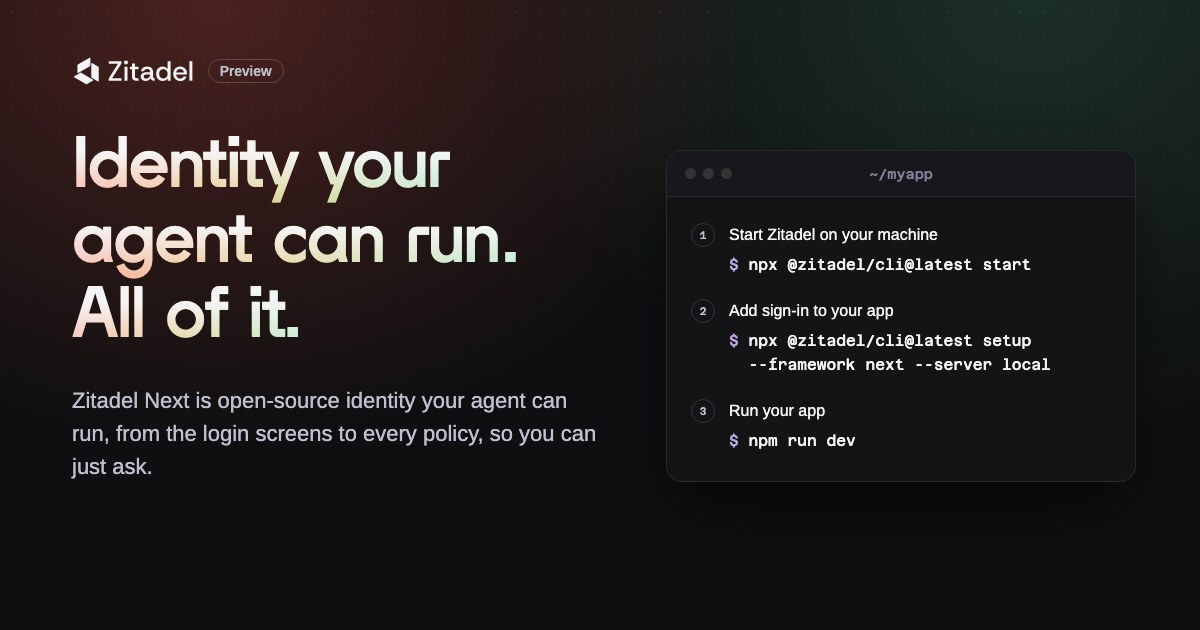
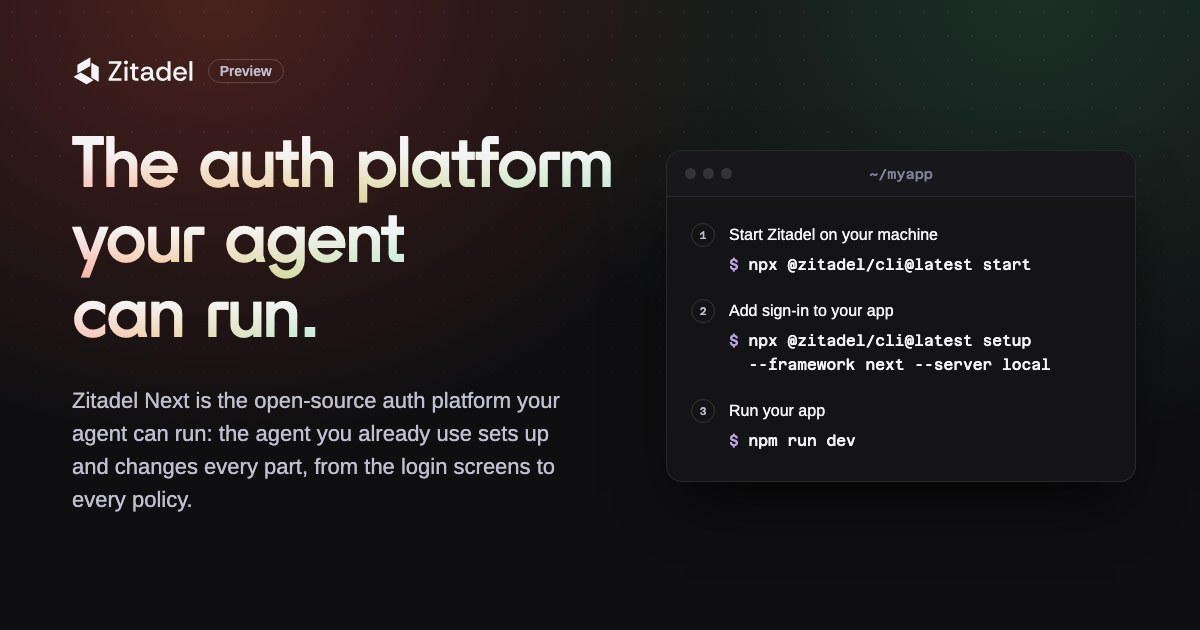
build(deploy): call the website's front page the auth platform your agent can run and tease what you can turn on
The hero's title is "The auth platform your agent can run." and its line
the new sentence, which now lives once in app/message.ts for the front
page, the site's description and the summary of /llms.txt. The title tag
and the footer follow, and the share image shows the new title and line.

Between the line and the commands, the hero lists what you can turn on:
Login, Single sign-on, Organizations, Permissions, OAuth server, SCIM,
Agent identity and Audit trail, each linking to its page where there is
one. Their clicks report clicked_link from the hero, and the catalog lists
the new targets.

diff --git a/apps/website/scripts/og.html b/apps/website/scripts/og.html
@@ -28,8 +28,8 @@ h1 span { background: linear-gradient(180deg, #f4f4f6 30%, transparent 125%), li
 </style></head><body>
 <div class="light"></div><div class="grid"></div>
 <div class="top"><svg viewBox="0 0 495 122"><path d="M23.92 34.61C22.83 35.14 22.02 36.17 21.92 37.14L21.92 67.21C21.76 68.76 23.38 69.49 25.11 68.64L72.79 41.55C73.88 41.02 74.68 40 74.78 39.02L74.78 8.39C74.94 6.84 73.32 6.12 71.6 6.96L23.92 34.61ZM108.75 47.22C108.84 46.01 108.36 44.8 107.56 44.22L81.21 28.38C79.96 27.48 78.52 28.51 78.38 30.43L78.38 85.57C78.3 86.79 78.78 87.99 79.58 88.57L105.92 103.63C107.18 104.53 108.62 103.5 108.75 101.58L108.75 47.22ZM56.86 114.13C57.88 114.81 59.16 115 60.06 114.59L85.69 99.82C87.13 99.06 86.93 97.43 85.34 96.35L37.39 68.21C36.38 67.53 35.09 67.34 34.2 67.74L8.21 82.9C6.8 83.54 6.98 85.3 8.57 86.38L56.86 114.13Z"/><path d="z"/><path d="M149.23 91.12L149.23 100.44L201.36 100.44L201.36 90.1L163.08 90.1L201.02 30.25L201.02 20.93L149.68 20.93L149.68 31.16L187.05 31.16L149.23 91.12Z"/><path d="i"/><path d="M213.95 31.95C215.54 33.46 217.43 34.22 219.63 34.22C221.9 34.22 223.79 33.46 225.31 31.95C226.9 30.36 227.7 28.43 227.7 26.16C227.7 23.96 226.9 22.1 225.31 20.59C223.79 19.08 221.9 18.32 219.63 18.32C217.43 18.32 215.54 19.08 213.95 20.59C212.44 22.1 211.68 23.96 211.68 26.16C211.68 28.43 212.44 30.36 213.95 31.95ZM213.61 44.1L213.61 100.44L225.65 100.44L225.65 44.1L213.61 44.1Z"/><path d="t"/><path d="M248.64 96.35C251.67 99.07 255.98 100.44 261.58 100.44L270.45 100.44L270.45 90.21L264.08 90.21C261.36 90.21 259.35 89.72 258.07 88.74C256.78 87.75 256.14 85.82 256.14 82.95L256.14 54.21L270.45 54.21L270.45 44.1L256.14 44.1L256.14 30.47L244.09 30.47L244.09 44.1L235.58 44.1L235.58 54.21L244.09 54.21L244.09 82.95C244.09 89.16 245.61 93.62 248.64 96.35Z"/><path d="a"/><path d="M289.32 99.87C292.35 101.16 295.68 101.8 299.31 101.8C303.78 101.8 307.75 100.74 311.24 98.62C314.72 96.5 317.37 93.92 319.18 90.89C320.02 93.09 321.15 94.91 322.59 96.35C324.03 97.71 325.85 98.73 328.05 99.41C330.32 100.1 332.97 100.44 336 100.44L336 90.1C333.73 89.95 332.14 89.38 331.23 88.4C330.39 87.34 329.94 85.71 329.86 83.51L329.86 66.25C329.86 61.71 328.95 57.65 327.14 54.09C325.39 50.54 322.71 47.78 319.07 45.81C315.52 43.76 311.01 42.74 305.56 42.74C301.39 42.74 297.46 43.5 293.75 45.01C290.03 46.53 286.97 48.72 284.54 51.6C282.2 54.47 280.83 57.96 280.45 62.05L292.61 62.05C293.22 58.87 294.69 56.56 297.04 55.12C299.46 53.6 302.26 52.84 305.44 52.84C307.87 52.84 309.99 53.34 311.8 54.32C313.62 55.23 315.06 56.71 316.12 58.75C317.18 60.72 317.71 63.33 317.71 66.59L303.4 66.59C299.01 66.59 294.96 67.23 291.25 68.52C287.61 69.73 284.7 71.66 282.5 74.31C280.38 76.89 279.32 80.33 279.32 84.65C279.32 88.29 280.23 91.39 282.04 93.96C283.86 96.54 286.29 98.5 289.32 99.87ZM310.33 89.65C307.98 91.16 305.25 91.92 302.15 91.92C299.27 91.92 296.81 91.27 294.77 89.99C292.72 88.63 291.7 86.51 291.7 83.63C291.7 81.43 292.27 79.73 293.41 78.51C294.62 77.23 296.17 76.32 298.06 75.79C300.03 75.26 302.11 74.99 304.31 74.99L317.71 74.99L317.71 75.22C317.71 78.17 317.07 80.94 315.78 83.51C314.49 86.01 312.68 88.06 310.33 89.65Z"/><path d="d"/><path d="M354.59 97.82C358.68 100.47 363.52 101.8 369.13 101.8C373.6 101.8 377.53 100.85 380.94 98.96C384.35 97.07 386.96 94.64 388.78 91.69L389.23 100.44L400.93 100.44L400.93 20.93L388.78 20.93L388.78 52.5C386.66 49.4 383.89 47.02 380.48 45.35C377.08 43.61 373.29 42.74 369.13 42.74C363.52 42.74 358.68 44.06 354.59 46.71C350.58 49.29 347.47 52.81 345.28 57.28C343.16 61.67 342.1 66.59 342.1 72.04C342.1 77.57 343.16 82.57 345.28 87.04C347.47 91.5 350.58 95.1 354.59 97.82ZM380.71 88.74C378.14 90.4 375.07 91.23 371.52 91.23C368.26 91.23 365.34 90.44 362.77 88.85C360.19 87.26 358.15 85.03 356.63 82.15C355.12 79.27 354.37 75.94 354.37 72.15C354.37 68.3 355.08 64.96 356.52 62.16C358.03 59.36 360.08 57.16 362.65 55.57C365.23 53.98 368.14 53.19 371.4 53.19C374.58 53.19 377.46 53.94 380.03 55.46C382.68 56.97 384.76 59.13 386.28 61.93C387.87 64.74 388.66 68.18 388.66 72.27C388.66 75.83 387.98 79.04 386.62 81.92C385.26 84.8 383.29 87.07 380.71 88.74Z"/><path d="e"/><path d="M425.27 98.05C429.51 100.55 434.39 101.8 439.92 101.8C444.61 101.8 448.7 100.97 452.18 99.3C455.67 97.63 458.55 95.4 460.82 92.6C463.17 89.8 464.83 86.69 465.82 83.29L453.32 83.29C452.18 86.01 450.44 88.13 448.1 89.65C445.83 91.08 443.06 91.8 439.81 91.8C436.78 91.8 434.09 91.12 431.74 89.76C429.4 88.32 427.54 86.39 426.18 83.97C424.81 81.47 424.02 78.63 423.79 75.45L467.07 75.45C467.22 74.39 467.29 73.48 467.29 72.72C467.37 71.96 467.41 71.05 467.41 70C467.41 64.77 466.23 60.12 463.89 56.03C461.61 51.94 458.43 48.72 454.34 46.37C450.25 43.95 445.49 42.74 440.03 42.74C434.43 42.74 429.47 43.99 425.16 46.49C420.91 48.91 417.62 52.31 415.27 56.71C412.92 61.1 411.75 66.29 411.75 72.27C411.75 78.02 412.92 83.13 415.27 87.6C417.69 92.07 421.03 95.55 425.27 98.05ZM455.14 66.93L423.91 66.93C424.44 62.16 426.25 58.6 429.36 56.25C432.46 53.9 435.9 52.73 439.69 52.73C443.93 52.73 447.53 54.02 450.48 56.59C453.43 59.09 454.99 62.54 455.14 66.93Z"/><path d="l"/><path d="M477.46 20.93L477.46 100.44L489.5 100.44L489.5 20.93L477.46 20.93Z"/></svg><span class="pill">Preview</span></div>
-<h1><span>Identity your<br>agent can run.<br>All of it.</span></h1>
-<p class="lede">Zitadel Next is open-source identity your agent can run, from the login screens to every policy, so you can just ask.</p>
+<h1><span>The auth platform<br>your agent<br>can run.</span></h1>
+<p class="lede">Zitadel Next is the open-source auth platform your agent can run: the agent you already use sets up and changes every part, from the login screens to every policy.</p>
 <div class="window"><div class="bar"><i></i><i></i><i></i><span>~/myapp</span></div><div class="body">
 <div class="step"><span class="n">1</span><span class="label">Start Zitadel on your machine</span><div class="cmd"><span class="p">$</span> npx @zitadel/cli@latest start</div></div>
 <div class="step"><span class="n">2</span><span class="label">Add sign-in to your app</span><div class="cmd"><span class="p">$</span> npx @zitadel/cli@latest setup <span class="w">--framework</span> next <span class="w">--server</span> local</div></div>

diff --git a/apps/website/app/cta.tsx b/apps/website/app/cta.tsx
@@ -1,9 +1,10 @@
 "use client";
 
-import { type Placement, trackEvent } from "./analytics";
+import { type Placement, type Target, trackEvent } from "./analytics";
 import { GitHubMark } from "./github-mark";
 import { links } from "./links";
 import { phasePath } from "./phases";
+import { featurePath } from "./platform";
 
 const BUTTON =
   "group inline-flex h-11 items-center gap-2 rounded-lg px-5 font-semibold text-sm transition-colors";
@@ -73,6 +74,62 @@ export function StartButtons({
           Talk to us
         </a>
       )}
+    </div>
+  );
+}
+
+// What you can turn on, in the founder's order: each with the page that
+// shows it where there is one, and its name for analytics (analytics.ts).
+const CAPABILITIES: readonly { label: string; link?: { href: string; target: Target } }[] = [
+  { label: "Login", link: { href: featurePath("sign-in"), target: "sign_in" } },
+  {
+    label: "Single sign-on",
+    link: { href: featurePath("single-sign-on"), target: "single_sign_on" },
+  },
+  { label: "Organizations" },
+  { label: "Permissions", link: { href: featurePath("permissions"), target: "permissions" } },
+  { label: "OAuth server" },
+  { label: "SCIM" },
+  { label: "Agent identity", link: { href: featurePath("agents"), target: "agents" } },
+  { label: "Audit trail", link: { href: phasePath("investigate"), target: "investigate" } },
+];
+
+/**
+ * The hero's capabilities between hairlines, under a label in the steps'
+ * small type: what you get, whoever runs it. An item with a page links to it
+ * and reports `clicked_link` from the hero; one without stands as text. The
+ * items wrap as whole names.
+ */
+export function CapabilityStrip({ className = "" }: { className?: string }) {
+  return (
+    <div
+      className={`flex flex-col items-center gap-2.5 border-border-primary border-y py-4 ${className}`}
+    >
+      <p id="capabilities-label" className="font-mono text-text-muted text-xs leading-4">
+        Turn on what you need
+      </p>
+      <ul
+        aria-labelledby="capabilities-label"
+        className="flex flex-wrap justify-center gap-x-5 gap-y-1 text-sm leading-6"
+      >
+        {CAPABILITIES.map(({ label, link }) => (
+          <li key={label} className="whitespace-nowrap">
+            {link ? (
+              <a
+                href={link.href}
+                onClick={() =>
+                  trackEvent("clicked_link", { target: link.target, placement: "hero" })
+                }
+                className="text-text-secondary underline decoration-tint/25 underline-offset-4 transition-colors hover:text-text-primary hover:decoration-text-primary"
+              >
+                {label}
+              </a>
+            ) : (
+              <span className="text-text-secondary">{label}</span>
+            )}
+          </li>
+        ))}
+      </ul>
     </div>
   );
 }

diff --git a/apps/website/app/page.tsx b/apps/website/app/page.tsx
@@ -1,17 +1,14 @@
 import type { CSSProperties } from "react";
 import { ChangeHistory, QuickstartCommands, SkillsLine } from "./blocks";
 import { Capabilities } from "./capabilities";
-import { StartButtons } from "./cta";
+import { CapabilityStrip, StartButtons } from "./cta";
 import { HISTORY } from "./get-started/history";
+import { SENTENCE } from "./message";
 import { PHASES, phasePath } from "./phases";
 import { PLATFORM } from "./platform";
 import { Part, PointList, TitleRows, TopLight } from "./sections";
 import { SiteFooter } from "./site-footer";
 import { SiteHeader } from "./site-header";
-
-// The message house's sentence, word for word, under the title.
-const LINE =
-  "Zitadel Next is open-source identity your agent can run, from the login screens to every policy, so you can just ask.";
 
 // What stays yours, whatever your agent runs (LICENSING.md for the licenses).
 const DECIDE = [
@@ -73,16 +70,17 @@ export default function Home() {
           <div className="grid w-fit max-w-full justify-items-center">
             <h1 id="hero-title" className="hero-title">
               <span className="display-title">
-                Identity your agent can run. <br />
-                All of it.
+                The auth platform <br className="max-sm:hidden" />
+                your agent can run.
               </span>
             </h1>
             <p className="hero-lede teaser mt-5 text-balance text-center text-base text-text-secondary leading-7 md:text-lg md:leading-8">
-              {LINE}
+              {SENTENCE}
             </p>
           </div>
-          <div className="teaser mt-10 flex w-full flex-col items-center gap-6">
-            <div className="w-full max-w-[42rem]">
+          <div className="teaser mt-8 flex w-full flex-col items-center gap-6">
+            <CapabilityStrip className="w-full max-w-3xl" />
+            <div className="w-full max-w-3xl">
               <QuickstartCommands placement="hero" />
             </div>
             <SkillsLine placement="hero" className="text-balance text-center text-sm" />

diff --git a/apps/website/app/llms.txt/route.ts b/apps/website/app/llms.txt/route.ts
@@ -1,4 +1,5 @@
 import { commands, deployCommand, dryRunCommand, folderCommand, skillsCommand } from "../commands";
+import { SENTENCE } from "../message";
 import { PHASES, phasePath } from "../phases";
 import { FEATURES, featurePath, PLATFORM } from "../platform";
 import { sessions } from "../showcase/sessions";
@@ -28,7 +29,7 @@ const featurePages = [
 
 const body = `# Zitadel (developer preview)
 
-> Your login in one minute. Zitadel is open-source auth for users, services, and AI agents that lives in the app's repo: one terminal session gives an app a local Zitadel with login, registration, and profile pages, and the user model, the login flow, and the styling are files in the repo. This is the preview of the next Zitadel: APIs, CLI flags and packages still change.
+> ${SENTENCE} One terminal session gives an app a local Zitadel with login, registration, and profile pages, and the user model, the login flow, and the styling are files in the app's repo. This is the preview of the next Zitadel: APIs, CLI flags and packages still change.
 
 Run it locally with the published CLI (Node.js 24 or newer), in a new folder for a Next.js app. Every Zitadel command takes \`--non-interactive --json\` and prints one JSON envelope on stdout:
 

diff --git a/apps/website/app/layout.tsx b/apps/website/app/layout.tsx
@@ -2,6 +2,7 @@ import { Analytics } from "@vercel/analytics/next";
 import { SpeedInsights } from "@vercel/speed-insights/next";
 import type { Metadata } from "next";
 import localFont from "next/font/local";
+import { SENTENCE } from "./message";
 import og from "./og.jpg";
 import "./globals.css";
 import { THEME_SCRIPT } from "./theme";
@@ -35,9 +36,8 @@ const apkFutural = localFont({
   display: "swap",
 });
 
-const title = "Zitadel Next: identity you can just ask";
-const description =
-  "Zitadel Next is open-source identity your agent can run, from the login screens to every policy, so you can just ask.";
+const title = "Zitadel Next: the auth platform your agent can run";
+const description = SENTENCE;
 
 // The share image, rendered from scripts/og.html (AGENTS.md), imported so it
 // loads from /_next/; on Vercel, Next makes its URL absolute with the

diff --git a/apps/website/app/analytics.ts b/apps/website/app/analytics.ts
@@ -46,9 +46,21 @@ export type Placement = "header" | "hero" | "showcase" | "try_it" | "closing" | 
 /**
  * Where a call to action leads, as a stable name, never a URL: `get_started`
  * is /get-started, `sign_up` the cloud's sign-up and `contact` zitadel.com's
- * contact page.
+ * contact page; `sign_in`, `single_sign_on`, `permissions` and `agents` are
+ * those feature pages and `investigate` that phase page, from the hero's
+ * capabilities.
  */
-export type Target = "quickstart" | "github" | "get_started" | "sign_up" | "contact";
+export type Target =
+  | "quickstart"
+  | "github"
+  | "get_started"
+  | "sign_up"
+  | "contact"
+  | "sign_in"
+  | "single_sign_on"
+  | "permissions"
+  | "agents"
+  | "investigate";
 
 /**
  * What a copy button copied, never its text: `all` is a whole block of

diff --git a/apps/website/app/site-footer.tsx b/apps/website/app/site-footer.tsx
@@ -71,9 +71,7 @@ export function SiteFooter() {
           <a href="/" aria-label="Zitadel preview home" className="rounded-sm">
             <Logo id="footer-logo" className="h-6 w-auto" autoplay />
           </a>
-          <p className="text-sm text-text-muted leading-6">
-            Open-source identity your agent can run.
-          </p>
+          <p className="text-sm text-text-muted leading-6">Open-source auth your agent can run.</p>
           <div className="mt-1 rounded-lg border border-window-border bg-window px-3 py-1 font-mono text-xs leading-7">
             <CommandLine command={startCommand} placement="footer" />
           </div>

diff --git a/apps/website/app/message.ts b/apps/website/app/message.ts
@@ -1,0 +1,6 @@
+// The message house's sentence, word for word: the front page's line under
+// its title, the site's description for search engines and shares
+// (layout.tsx) and the summary of /llms.txt. Say "your agent" or "the agent
+// you already use", never "agents" alone: Zitadel ships no agent of its own.
+export const SENTENCE =
+  "Zitadel Next is the open-source auth platform your agent can run: the agent you already use sets up and changes every part, from the login screens to every policy.";

diff --git a/apps/website/app/globals.css b/apps/website/app/globals.css
@@ -127,8 +127,8 @@
   }
 
   /* The hero's title, and every other page's (sections.tsx): the front
-     page's a line per sentence (page.tsx breaks it after the first), a long
-     one wrapping on a phone. */
+     page's on two lines (page.tsx breaks it before "your agent" from a small
+     tablet up), a long one wrapping, balanced, on a phone. */
   .hero-title {
     --title-from: var(--color-step-start);
     --title-to: var(--color-step-end);

diff --git a/apps/website/AGENTS.md b/apps/website/AGENTS.md
@@ -7,8 +7,9 @@ guide to choosing it or Zitadel v4 at `/choose-version`.
 Shared app rules: [`apps/AGENTS.md`](../AGENTS.md).
 
 - The front page leads with the quickstart, then shows what is in it, and
-  nothing else: the hero (title, line, the quickstart's numbered commands, the
-  skills command, Start in our cloud and Run it yourself), What you get (the
+  nothing else: the hero (title, the sentence of `app/message.ts`, the
+  capabilities to turn on, the quickstart's numbered commands, the skills
+  command, Start in our cloud and Run it yourself), What you get (the
   features by group, each with a window), What your agent runs (a row per
   phase with its first ask), You decide (beside the change history), and a
   closing band with both ways to start and Talk to us.
